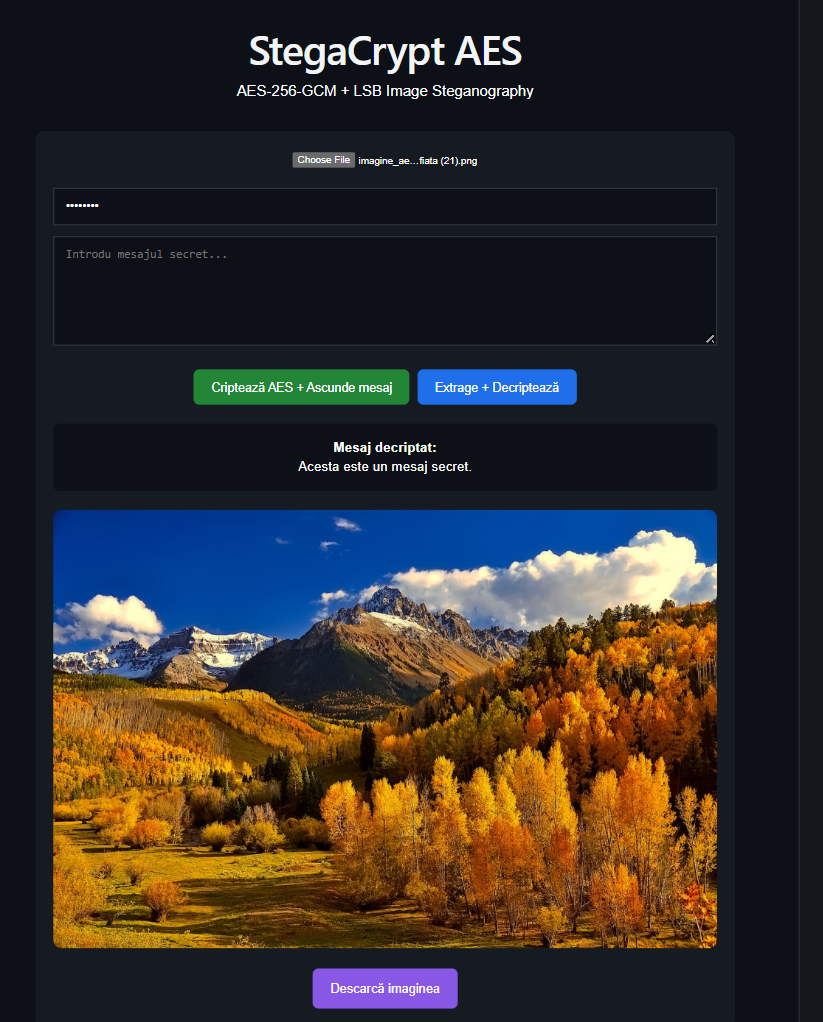
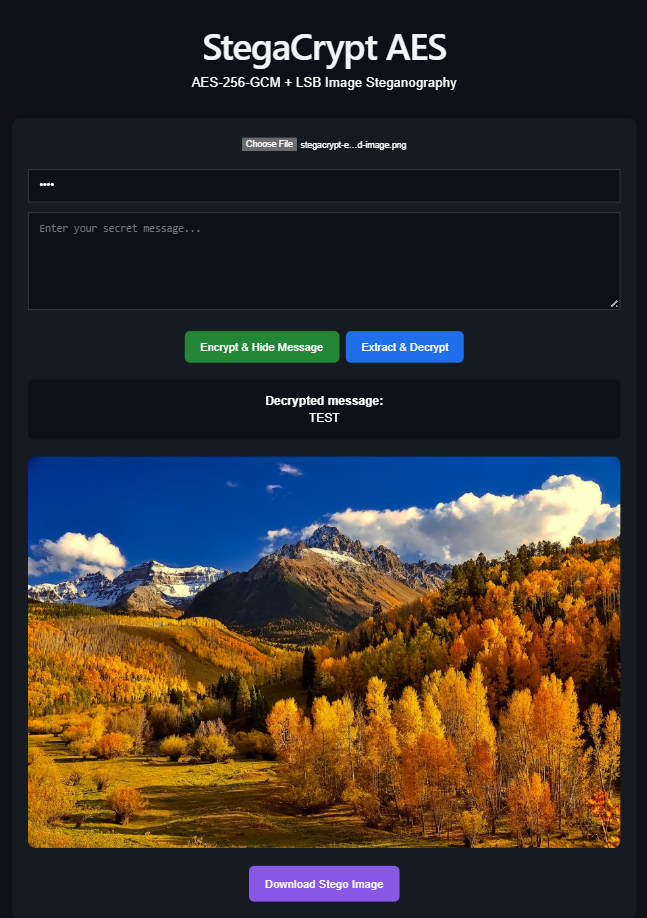
Translate application interface to English

diff --git a/src/App.jsx b/src/App.jsx
@@ -85,10 +85,7 @@ async function getAESKey(password, salt) {
 async function encryptMessage(message, password) {
   const encoder = new TextEncoder();
 
-  // Random salt for PBKDF2
   const salt = crypto.getRandomValues(new Uint8Array(16));
-
-  // 96-bit IV recommended for AES-GCM
   const iv = crypto.getRandomValues(new Uint8Array(12));
 
   const key = await getAESKey(password, salt);
@@ -102,11 +99,6 @@ async function encryptMessage(message, password) {
     encoder.encode(message)
   );
 
-  /*
-   * Salt and IV are not secret.
-   * They are stored together with the ciphertext so that
-   * the AES key can be derived again during decryption.
-   */
   const payload = {
     version: 1,
     salt: Array.from(salt),
@@ -127,10 +119,9 @@ async function decryptMessage(encryptedText, password) {
   try {
     payload = JSON.parse(encryptedText);
   } catch {
-    throw new Error("Payload-ul criptat nu este valid.");
+    throw new Error("The encrypted payload is invalid.");
   }
 
-  // Basic payload validation
   if (
     !payload ||
     payload.version !== 1 ||
@@ -138,19 +129,19 @@ async function decryptMessage(encryptedText, password) {
     !Array.isArray(payload.iv) ||
     !Array.isArray(payload.data)
   ) {
-    throw new Error("Structura payload-ului nu este validă.");
+    throw new Error("Invalid payload structure.");
   }
 
   if (payload.salt.length !== 16) {
-    throw new Error("Salt invalid.");
+    throw new Error("Invalid salt.");
   }
 
   if (payload.iv.length !== 12) {
-    throw new Error("IV invalid.");
+    throw new Error("Invalid IV.");
   }
 
   if (payload.data.length === 0) {
-    throw new Error("Ciphertext invalid.");
+    throw new Error("Invalid ciphertext.");
   }
 
   const salt = new Uint8Array(payload.salt);
@@ -177,7 +168,7 @@ async function decryptMessage(encryptedText, password) {
 
 function numberTo32BitBinary(number) {
   if (!Number.isSafeInteger(number) || number < 0 || number > 0xffffffff) {
-    throw new Error("Dimensiunea payload-ului nu este validă.");
+    throw new Error("Invalid payload size.");
   }
 
   return number.toString(2).padStart(HEADER_BITS, "0");
@@ -185,7 +176,7 @@ function numberTo32BitBinary(number) {
 
 function binary32ToNumber(bits) {
   if (bits.length !== HEADER_BITS) {
-    throw new Error("Header invalid.");
+    throw new Error("Invalid header.");
   }
 
   return parseInt(bits, 2);
@@ -198,43 +189,29 @@ function binary32ToNumber(bits) {
 function encodeLSB(imageData, message) {
   const messageBits = textToBits(message);
 
-  /*
-   * First 32 bits = payload length in bits.
-   * Remaining bits = encrypted payload.
-   */
   const lengthHeader = numberTo32BitBinary(messageBits.length);
   const bits = lengthHeader + messageBits;
 
   const data = new Uint8ClampedArray(imageData.data);
 
-  /*
-   * Every pixel has:
-   * R, G, B, A
-   *
-   * We use only RGB, therefore 3 bits per pixel.
-   */
+  // Three usable channels per pixel: R, G and B.
   const capacity = Math.floor((data.length / 4) * 3);
 
   if (bits.length > capacity) {
     throw new Error(
-      "Mesajul criptat este prea lung pentru această imagine."
+      "The encrypted message is too large for this image."
     );
   }
 
   let bitIndex = 0;
 
   for (let i = 0; i < data.length && bitIndex < bits.length; i++) {
-    // Skip alpha channel
+    // Skip the alpha channel.
     if ((i + 1) % 4 === 0) {
       continue;
     }
 
-    /*
-     * Clear the current least significant bit
-     * and replace it with our payload bit.
-     */
     data[i] = (data[i] & 0xfe) | Number(bits[bitIndex]);
-
     bitIndex++;
   }
 
@@ -251,11 +228,10 @@ function encodeLSB(imageData, message) {
 
 function decodeLSB(imageData) {
   const data = imageData.data;
-
   const capacity = Math.floor((data.length / 4) * 3);
 
   if (capacity < HEADER_BITS) {
-    throw new Error("Imaginea este prea mică.");
+    throw new Error("The image is too small.");
   }
 
   let headerBits = "";
@@ -265,16 +241,13 @@ function decodeLSB(imageData) {
   let readableBitIndex = 0;
 
   for (let i = 0; i < data.length; i++) {
-    // Skip alpha channel
+    // Skip the alpha channel.
     if ((i + 1) % 4 === 0) {
       continue;
     }
 
     const bit = String(data[i] & 1);
 
-    /*
-     * Read the first 32 RGB LSBs as the length header.
-     */
     if (readableBitIndex < HEADER_BITS) {
       headerBits += bit;
       readableBitIndex++;
@@ -282,12 +255,6 @@ function decodeLSB(imageData) {
       if (readableBitIndex === HEADER_BITS) {
         payloadLength = binary32ToNumber(headerBits);
 
-        /*
-         * Validate the declared payload size.
-         *
-         * This also prevents random normal images from causing
-         * us to attempt to read an impossible amount of data.
-         */
         const availablePayloadBits = capacity - HEADER_BITS;
 
         if (
@@ -296,7 +263,7 @@ function decodeLSB(imageData) {
           payloadLength % 8 !== 0
         ) {
           throw new Error(
-            "Imaginea nu conține un payload StegaCrypt valid."
+            "This image does not contain a valid StegaCrypt payload."
           );
         }
       }
@@ -317,7 +284,7 @@ function decodeLSB(imageData) {
   }
 
   throw new Error(
-    "Nu s-a putut extrage payload-ul complet din imagine."
+    "The complete payload could not be extracted from the image."
   );
 }
 
@@ -358,7 +325,7 @@ export default function SteganographyApp() {
 
         if (!ctx) {
           throw new Error(
-            "Browserul nu a putut inițializa Canvas."
+            "The browser could not initialize Canvas."
           );
         }
 
@@ -385,7 +352,7 @@ export default function SteganographyApp() {
         setError(
           err instanceof Error
             ? err.message
-            : "Imaginea nu a putut fi încărcată."
+            : "The image could not be loaded."
         );
       }
     };
@@ -397,7 +364,7 @@ export default function SteganographyApp() {
       setImageData(null);
 
       setError(
-        "Fișierul selectat nu a putut fi încărcat ca imagine."
+        "The selected file could not be loaded as an image."
       );
     };
 
@@ -414,15 +381,15 @@ export default function SteganographyApp() {
       setDecoded("");
 
       if (!imageData) {
-        throw new Error("Alege mai întâi o imagine.");
+        throw new Error("Please select an image first.");
       }
 
       if (!message.trim()) {
-        throw new Error("Scrie un mesaj secret.");
+        throw new Error("Please enter a secret message.");
       }
 
       if (!password) {
-        throw new Error("Introdu o parolă.");
+        throw new Error("Please enter a password.");
       }
 
       const encryptedMessage = await encryptMessage(
@@ -444,29 +411,26 @@ export default function SteganographyApp() {
 
       if (!ctx) {
         throw new Error(
-          "Browserul nu a putut inițializa Canvas."
+          "The browser could not initialize Canvas."
         );
       }
 
       ctx.putImageData(stegData, 0, 0);
 
-      /*
-       * PNG is used because it is lossless.
-       * Lossy compression such as JPEG can destroy LSB data.
-       */
+      // PNG is lossless and preserves the modified LSB values.
       const stegUrl = canvas.toDataURL("image/png");
 
       setImage(stegUrl);
       setImageData(stegData);
 
       alert(
-        "Mesajul a fost criptat cu AES-256-GCM și ascuns în imagine."
+        "The message was encrypted with AES-256-GCM and hidden in the image."
       );
     } catch (err) {
       setError(
         err instanceof Error
           ? err.message
-          : "A apărut o eroare la criptare."
+          : "An error occurred during encryption."
       );
     }
   };
@@ -481,11 +445,11 @@ export default function SteganographyApp() {
       setDecoded("");
 
       if (!imageData) {
-        throw new Error("Alege mai întâi o imagine.");
+        throw new Error("Please select an image first.");
       }
 
       if (!password) {
-        throw new Error("Introdu parola.");
+        throw new Error("Please enter the password.");
       }
 
       const encryptedText = decodeLSB(imageData);
@@ -498,7 +462,7 @@ export default function SteganographyApp() {
       setDecoded(originalMessage);
     } catch {
       setError(
-        "Nu s-a putut extrage/decripta mesajul. Verifică imaginea și parola."
+        "The message could not be extracted or decrypted. Check the image and password."
       );
     }
   };
@@ -557,7 +521,7 @@ export default function SteganographyApp() {
 
         <input
           type="password"
-          placeholder="Introdu parola"
+          placeholder="Enter password"
           value={password}
           onChange={(e) =>
             setPassword(e.target.value)
@@ -576,7 +540,7 @@ export default function SteganographyApp() {
 
         <textarea
           rows="6"
-          placeholder="Introdu mesajul secret..."
+          placeholder="Enter your secret message..."
           value={message}
           onChange={(e) =>
             setMessage(e.target.value)
@@ -607,7 +571,7 @@ export default function SteganographyApp() {
             cursor: "pointer",
           }}
         >
-          Criptează AES + Ascunde mesaj
+          Encrypt & Hide Message
         </button>
 
         <button
@@ -623,7 +587,7 @@ export default function SteganographyApp() {
             cursor: "pointer",
           }}
         >
-          Extrage + Decriptează
+          Extract & Decrypt
         </button>
 
         {error && (
@@ -646,7 +610,7 @@ export default function SteganographyApp() {
               borderRadius: "8px",
             }}
           >
-            <strong>Mesaj decriptat:</strong>
+            <strong>Decrypted message:</strong>
 
             <p
               style={{
@@ -676,7 +640,7 @@ export default function SteganographyApp() {
 
             <a
               href={image}
-              download="imagine_aes_steganografiata.png"
+              download="stegacrypt-encrypted-image.png"
               style={{
                 display: "inline-block",
                 marginTop: "20px",
@@ -688,7 +652,7 @@ export default function SteganographyApp() {
                 fontSize: "17px",
               }}
             >
-              Descarcă imaginea
+              Download Stego Image
             </a>
           </div>
         )}
